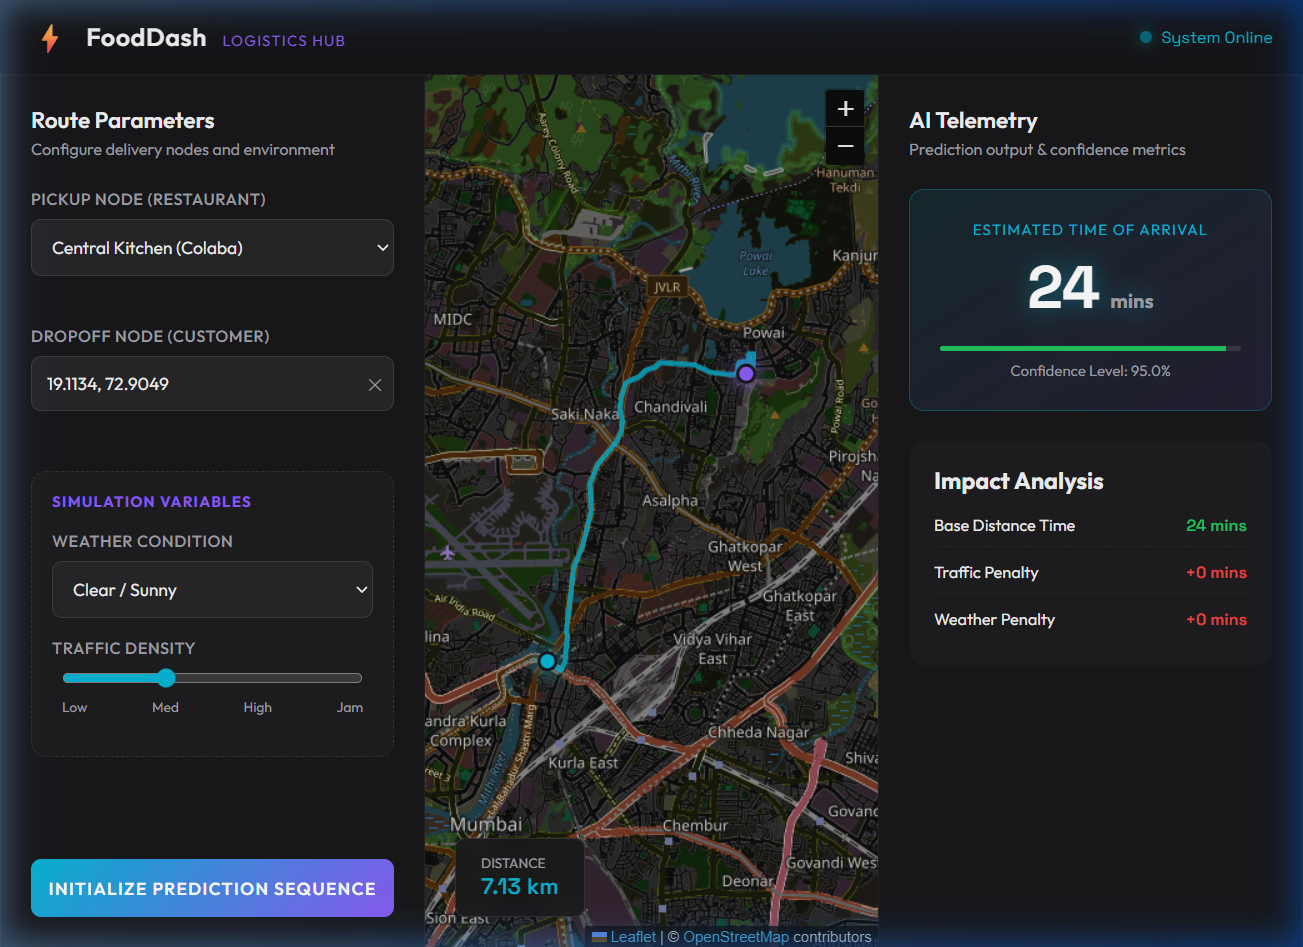
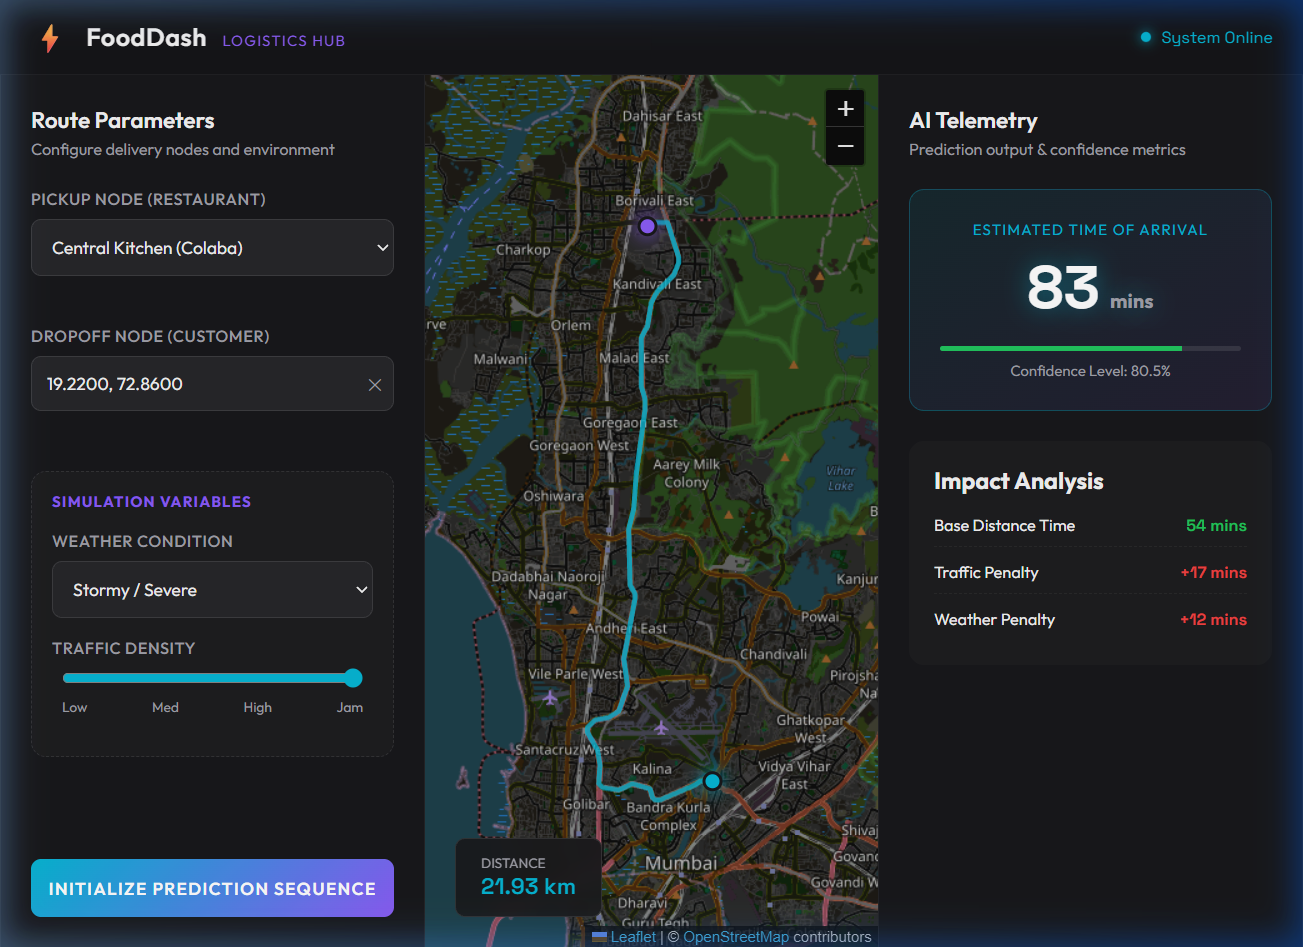
docs: highlight distance-compounded weather & traffic penalty engine and update live preview

diff --git a/README.md b/README.md
@@ -54,9 +54,14 @@ Live Demo: [Deploying today](https://vercel.com) *(Update with your Vercel URL)*
   - Blends trained machine learning pattern recognition with real-world physical transit constraints.
   - Delivers instant, deterministic ETA predictions in minutes.
 
-- **Granular Telemetry & Impact Breakdown**:
-  - Deconstructs total predicted time into **Base Distance Transit Time**, **Traffic Delay Penalty**, and **Weather Delay Penalty**.
-  - Dynamic **Confidence Level Meter** calculated from environmental volatility and transit distance.
+- **Distance-Compounded Weather & Traffic Penalty Engine**:
+  - Predicts real-world delivery delays by decomposing total delivery time into a **Physics Base Transit Time** and dynamic **Weather & Traffic Delay Penalties**.
+  - Rather than applying a naive flat delay, penalties scale proportionally with travel distance: bad weather and gridlock compound significantly the further the driver travels.
+  - **Live Telemetry Output**:
+    - **Base Distance Time**: Physical preparation and transit floor ($10\text{ mins prep} + 2\text{ mins/km}$).
+    - **Traffic Penalty**: Congestion delay calculated from traffic density (Low $\rightarrow$ Med $\rightarrow$ High $\rightarrow$ Jam).
+    - **Weather Penalty**: Adverse condition delay derived from weather severity (Sunny $\rightarrow$ Cloudy $\rightarrow$ Rainy $\rightarrow$ Stormy).
+    - **Confidence Score**: Dynamic confidence percentage that decreases under high environmental volatility and extreme distances.
 
 - **Operational Boundary Guard**:
   - Automated distance validator that detects if a selected dropoff point exceeds the maximum 100km urban operational limit, triggering an animated on-screen warning alert.
@@ -68,12 +73,16 @@ Live Demo: [Deploying today](https://vercel.com) *(Update with your Vercel URL)*
 
 ## What I learned / Optimization
 
-### 1. Solving the Random Forest Extrapolation Limit (Hybrid ML / Physics Architecture)
-* **The Problem**: Tree-based ensembles like Random Forest cannot extrapolate values outside the numerical range of their training set (in this dataset, delivery trips were typically $\le$ 20km). When tested on long-distance routes (e.g., 60–80km), the model plateaued and returned an inaccurate ceiling of ~45 minutes.
-* **The Solution**: Developed a hybrid architecture in `predictor.py`. The machine learning model is queried at a standardized baseline distance (10km) under current weather and traffic conditions to isolate the non-linear **environmental penalty multiplier**. This learned multiplier is then mathematically applied to a physical base transit equation:
+### 1. Distance-Scaled Environmental Penalties (Solving Random Forest Extrapolation)
+* **The Core Insight**: In real-world food logistics, environmental friction (weather and traffic) is **distance-dependent**. A severe rainstorm or traffic jam causes a mild 3-minute delay on a 1.5km trip, but compounds into an exponential 20–30 minute delay across a 25km cross-city journey.
+* **The Problem**: Tree-based ensembles like Random Forest cannot extrapolate values outside the numerical range of their training set (in this dataset, delivery trips were capped under 20km). When queried on long-distance trips (e.g., 40–80km), the model plateaued and returned an inaccurate ceiling of ~45 minutes.
+* **The Solution**: Developed a hybrid architecture in `predictor.py`. The machine learning model is queried at a standardized baseline distance (10km) under current weather and traffic conditions to extract the non-linear **penalty multiplier**:
+  $$\text{Penalty Multiplier} = \frac{\text{Model Predicted Time at 10km (Current Conditions)}}{\text{Model Predicted Time at 10km (Sunny + Low Traffic)}}$$
   $$\text{Base Time} = 10\text{ mins (kitchen preparation)} + (\text{Distance in km} \times 2\text{ mins/km})$$
   $$\text{Predicted ETA} = \text{Base Time} \times \max(1.0, \text{Penalty Multiplier})$$
-  This allows the system to scale realistically to any distance while preserving the complex penalties learned by the Random Forest.
+  $$\text{Total Penalty} = \text{Predicted ETA} - \text{Base Time}$$
+  $$\text{Weather Delay} = \text{Total Penalty} \times 40\% \quad\Big|\quad \text{Traffic Delay} = \text{Total Penalty} \times 60\%$$
+  This ensures penalties scale realistically across any route distance while preserving the complex non-linear relationships learned by the Random Forest.
 
 ### 2. Guarding Against Real-World Dataset Noise
 * **The Problem**: Real-world delivery records often contain noise or anomalies where a "Sunny" trip took longer than a "Stormy" trip due to unmeasured events (e.g., kitchen delays), occasionally causing the model to output a penalty multiplier $< 1.0$.
